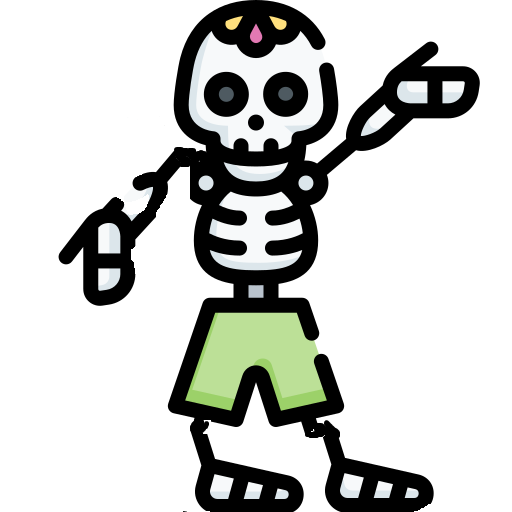
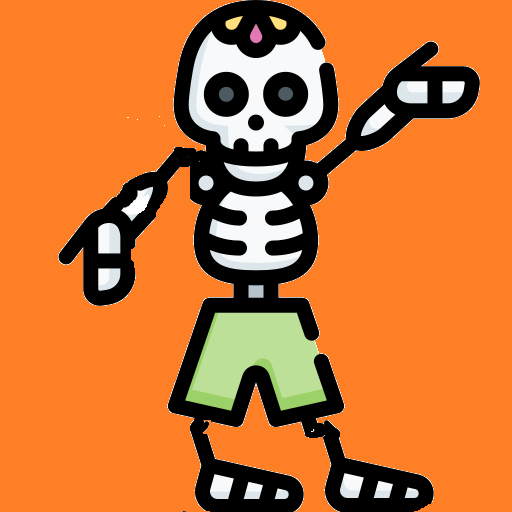
The End

diff --git a/index.html b/index.html
@@ -15,20 +15,24 @@
   </div>
   <div id="paragraph_top-1">
  • Wincanton is known for having many <i>ghosts</i> in the <b>Wookey Hole Caves</b>! 👻 <br>
- • There are <b> 6,568 </b> people living in <b>Wincanton</b>. As of <time datetime="2021">2021</time><br>
+ • There are <b> 6,568 </b> people living in <b>Wincanton</b>. As of <time datetime="2021">2021</time> (Soon to be 6,571!)<br>
  • The oldest part of <b>Wincanton Primary School</b> (The <i>Victorian</i> part of the building) has been open since <time datetime="1897">1897</time>. (That's <time datetime="126">126</time> years!!)<br>
- • <b>Wincanton</b> is a farmers' market place and also has a  horse race cource. 🐎 <br>
+ • <b>Wincanton</b> is a market town and also has a  horse race course. 🐎 <br>
  • The town, <b>Wincanton</b>'s 3 syllables have a secret meaning. <b>Win/Pleasant Can/Cale = River Ton/Town</b> <br>
- • It's generally more milad and wet than the rest of the country.
- • <b>Wincanton</b>'s secondary school, <b>King Authur's School</b>
+ • It's generally more mild and wet than the rest of the country. <br>
+ • <b>Wincanton</b>'s secondary school, <b>King Arthur's School</b>
 </div>
 <br>
-<img src="skeleton.ico" id="skeleton">
+  <img src="skeleton.ico" id="skeleton-img" onclick="myFunctionImage()">
+  <figcaption id="skeleton-caption">Click me!</figcaption>
 <article>
   <p id="w3-container">
-    <a id="w3-container" hre="https://github.com/coding98html">Made by Harry 👨🏻💻</a>
+    <a id="w3-container" href="https://github.com/coding98html">Made by Harry 👨🏻💻</a>
 </p>
 </article>
+<footer>
+  <a href="copyright.html" id="copyright-index">Copyright ©</a>
+</footer>
   <script src="script.js"></script>
 
 

diff --git a/copyright.html b/copyright.html
@@ -1,0 +1,18 @@
+<!DOCTYPE html>
+<html>
+
+<head>
+  <meta charset="utf-8">
+  <meta name="viewport" content="width=device-width">
+  <title>Copyright</title>
+  <link href="style.css" rel="stylesheet" type="text/css"/>
+  <link href="skeleton.ico" rel="icon" type="x/image"/>
+</head>
+<body>
+    <h1>Copyright</h1>
+    • Original skeleton icon at <a href="https://www.flaticon.com/free-icons/skeleton" title="skeleton icons">Skeleton icons created by Freepik - Flaticon</a> <br>
+    - Edited with Paint on Windows by <a href="https://github.com/coding98html" target="_blank">Harry</a> <br>
+    • Animated when clicked image made possable with internet and <b>Bing AI/Copilot</b> <br>
+    • Used <b>Stack Overflow</b> as a guest - have no account <br></br><br><br><br><br><br>
+    When the name Harry is mentioned that is Harry Bassam one of the pupils
+</body>

diff --git a/script.js b/script.js
@@ -19,3 +19,21 @@ paragraphElement.addEventListener('click', function() {
         console.error('An error occurred:', error);
     }
 });
+
+// To change the image to make it look animated
+
+window.onload = function() {
+    var clicked = false;
+
+    document.getElementById('skeleton-img').onclick = function() {
+        var d = new Date();
+        if (!clicked) {
+            this.src = 'skeleton2.jpg?' + d.getTime();
+            clicked = true;
+        } else {
+            this.src = 'skeleton.ico?' + d.getTime();
+            clicked = false;
+        }
+    }
+}
+

diff --git a/style.css b/style.css
@@ -1,5 +1,7 @@
 /* Welcome! */
 
+/* index.html */
+
 /*Background image*/
 body {
     background-image: url('dark-halloween-1443867.jpg');
@@ -28,10 +30,14 @@ time {
     bottom: 0; 
 }
 
-img#skeleton {
-    position: absolute;
-  right: 0px;
-  height: 125px;
+#skeleton-img {
   width: 145px;
-  padding: 10px;
+  height: 125px;
+}
+
+/* Puts the copyright link at the bottom of the page*/
+#copyright-index  {
+  position: absolute;
+  bottom: 15px;
+  right: 600px;
 }
